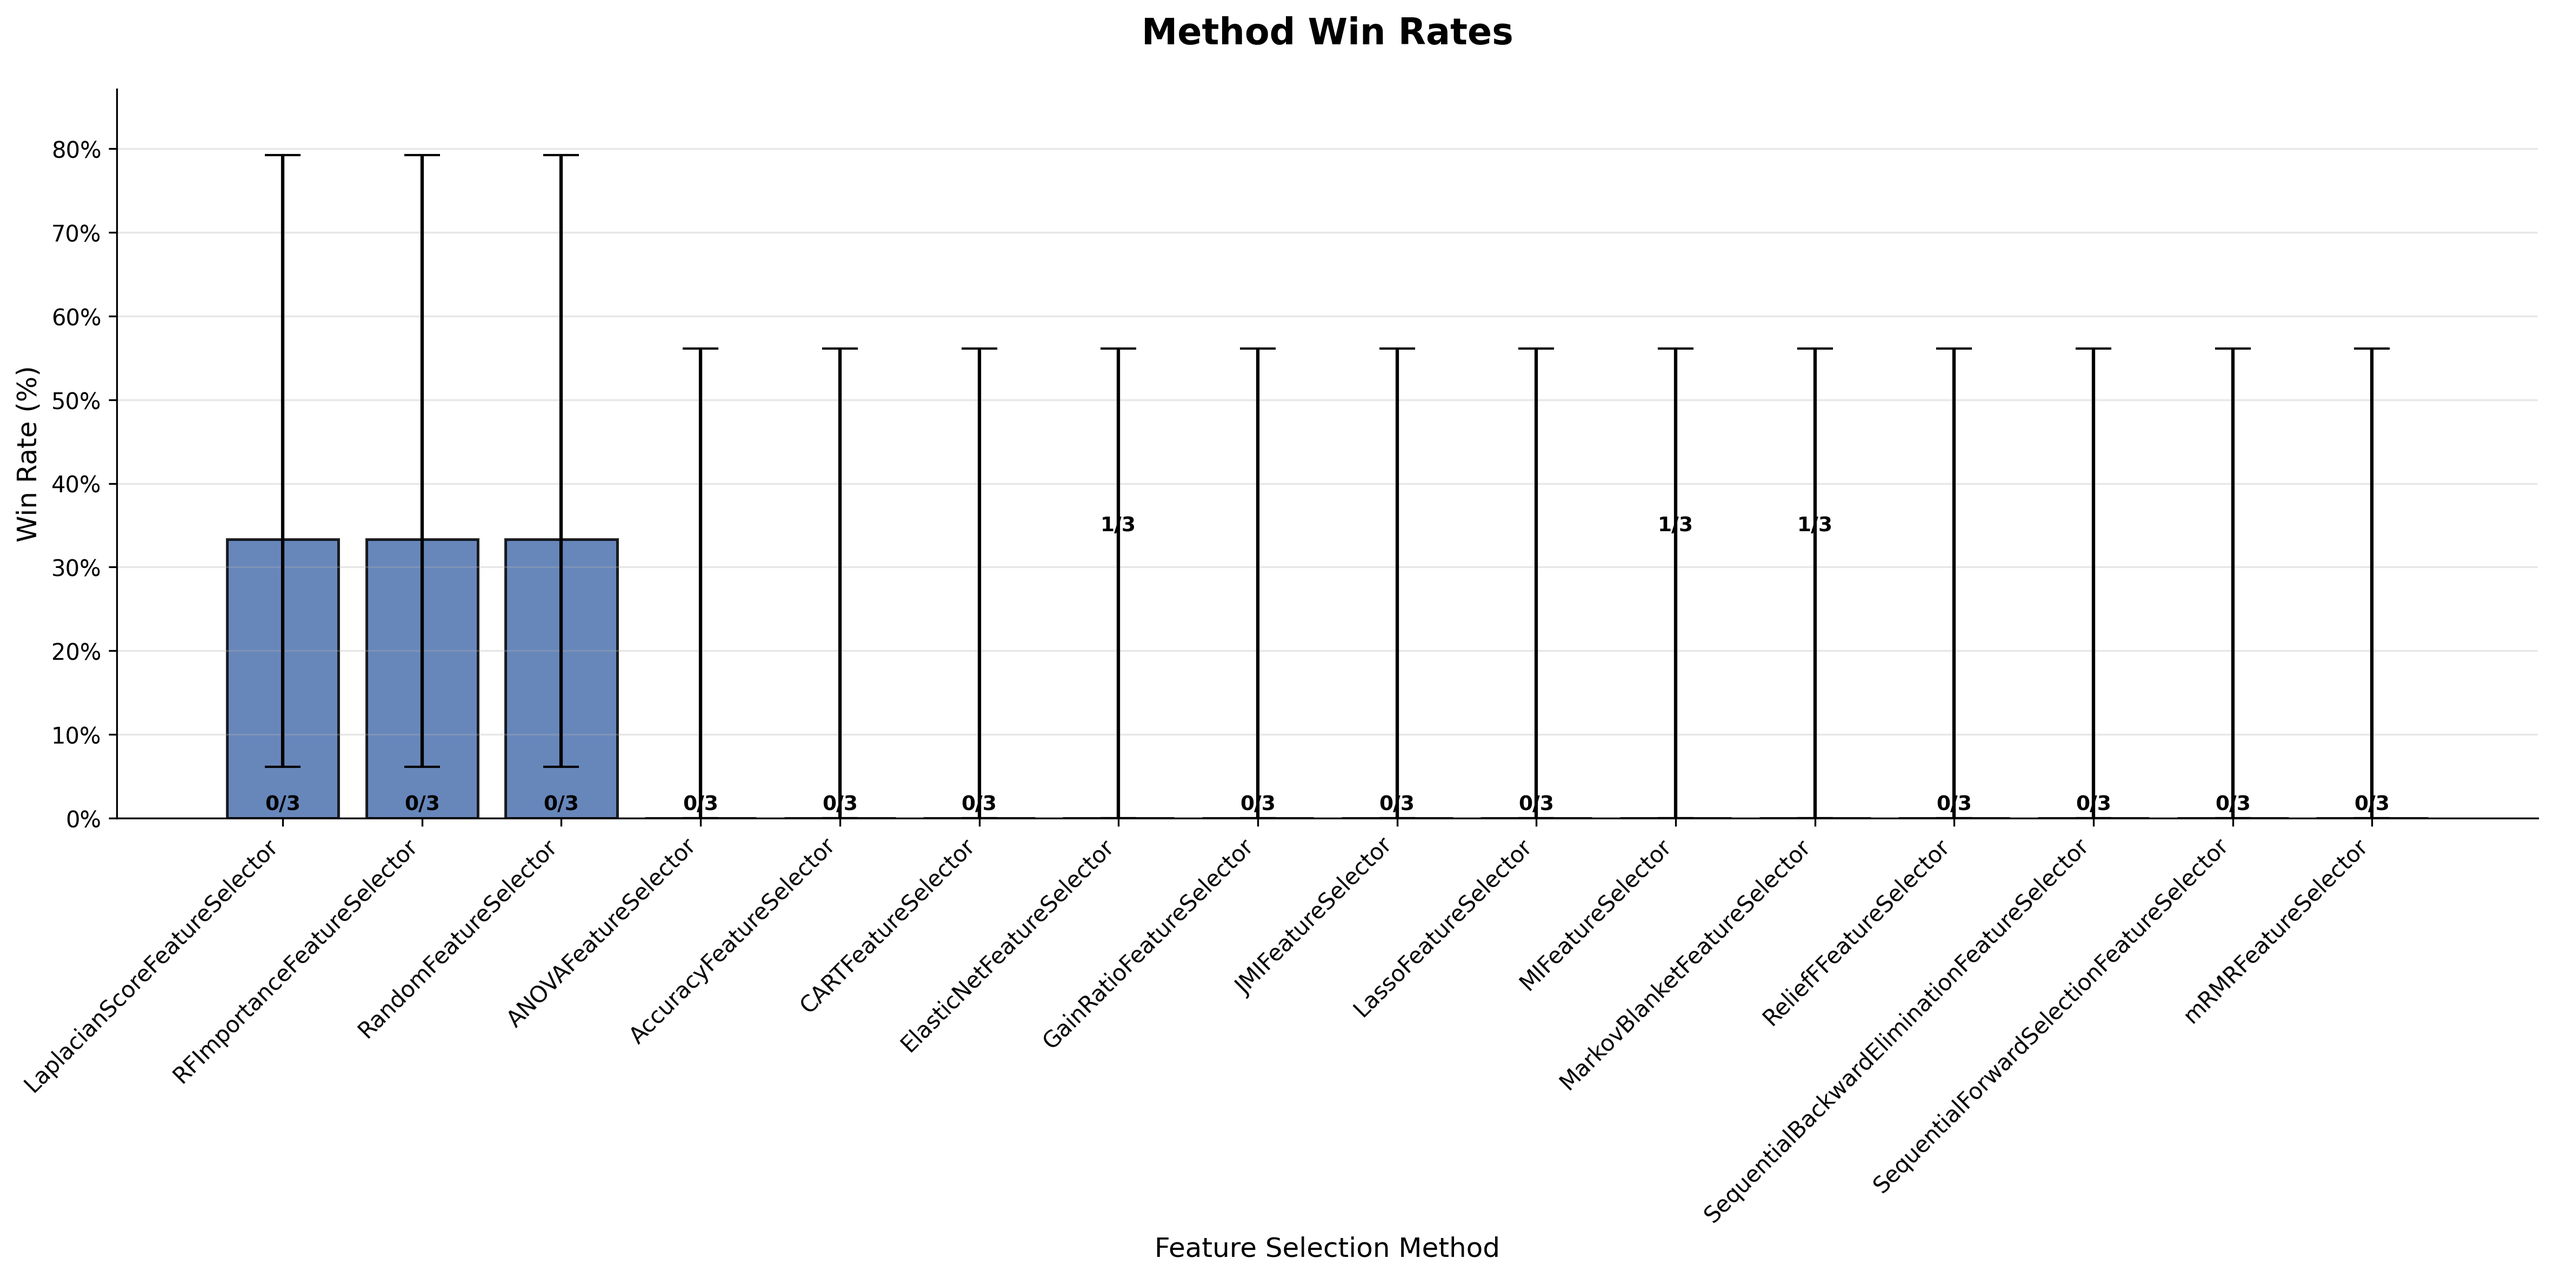
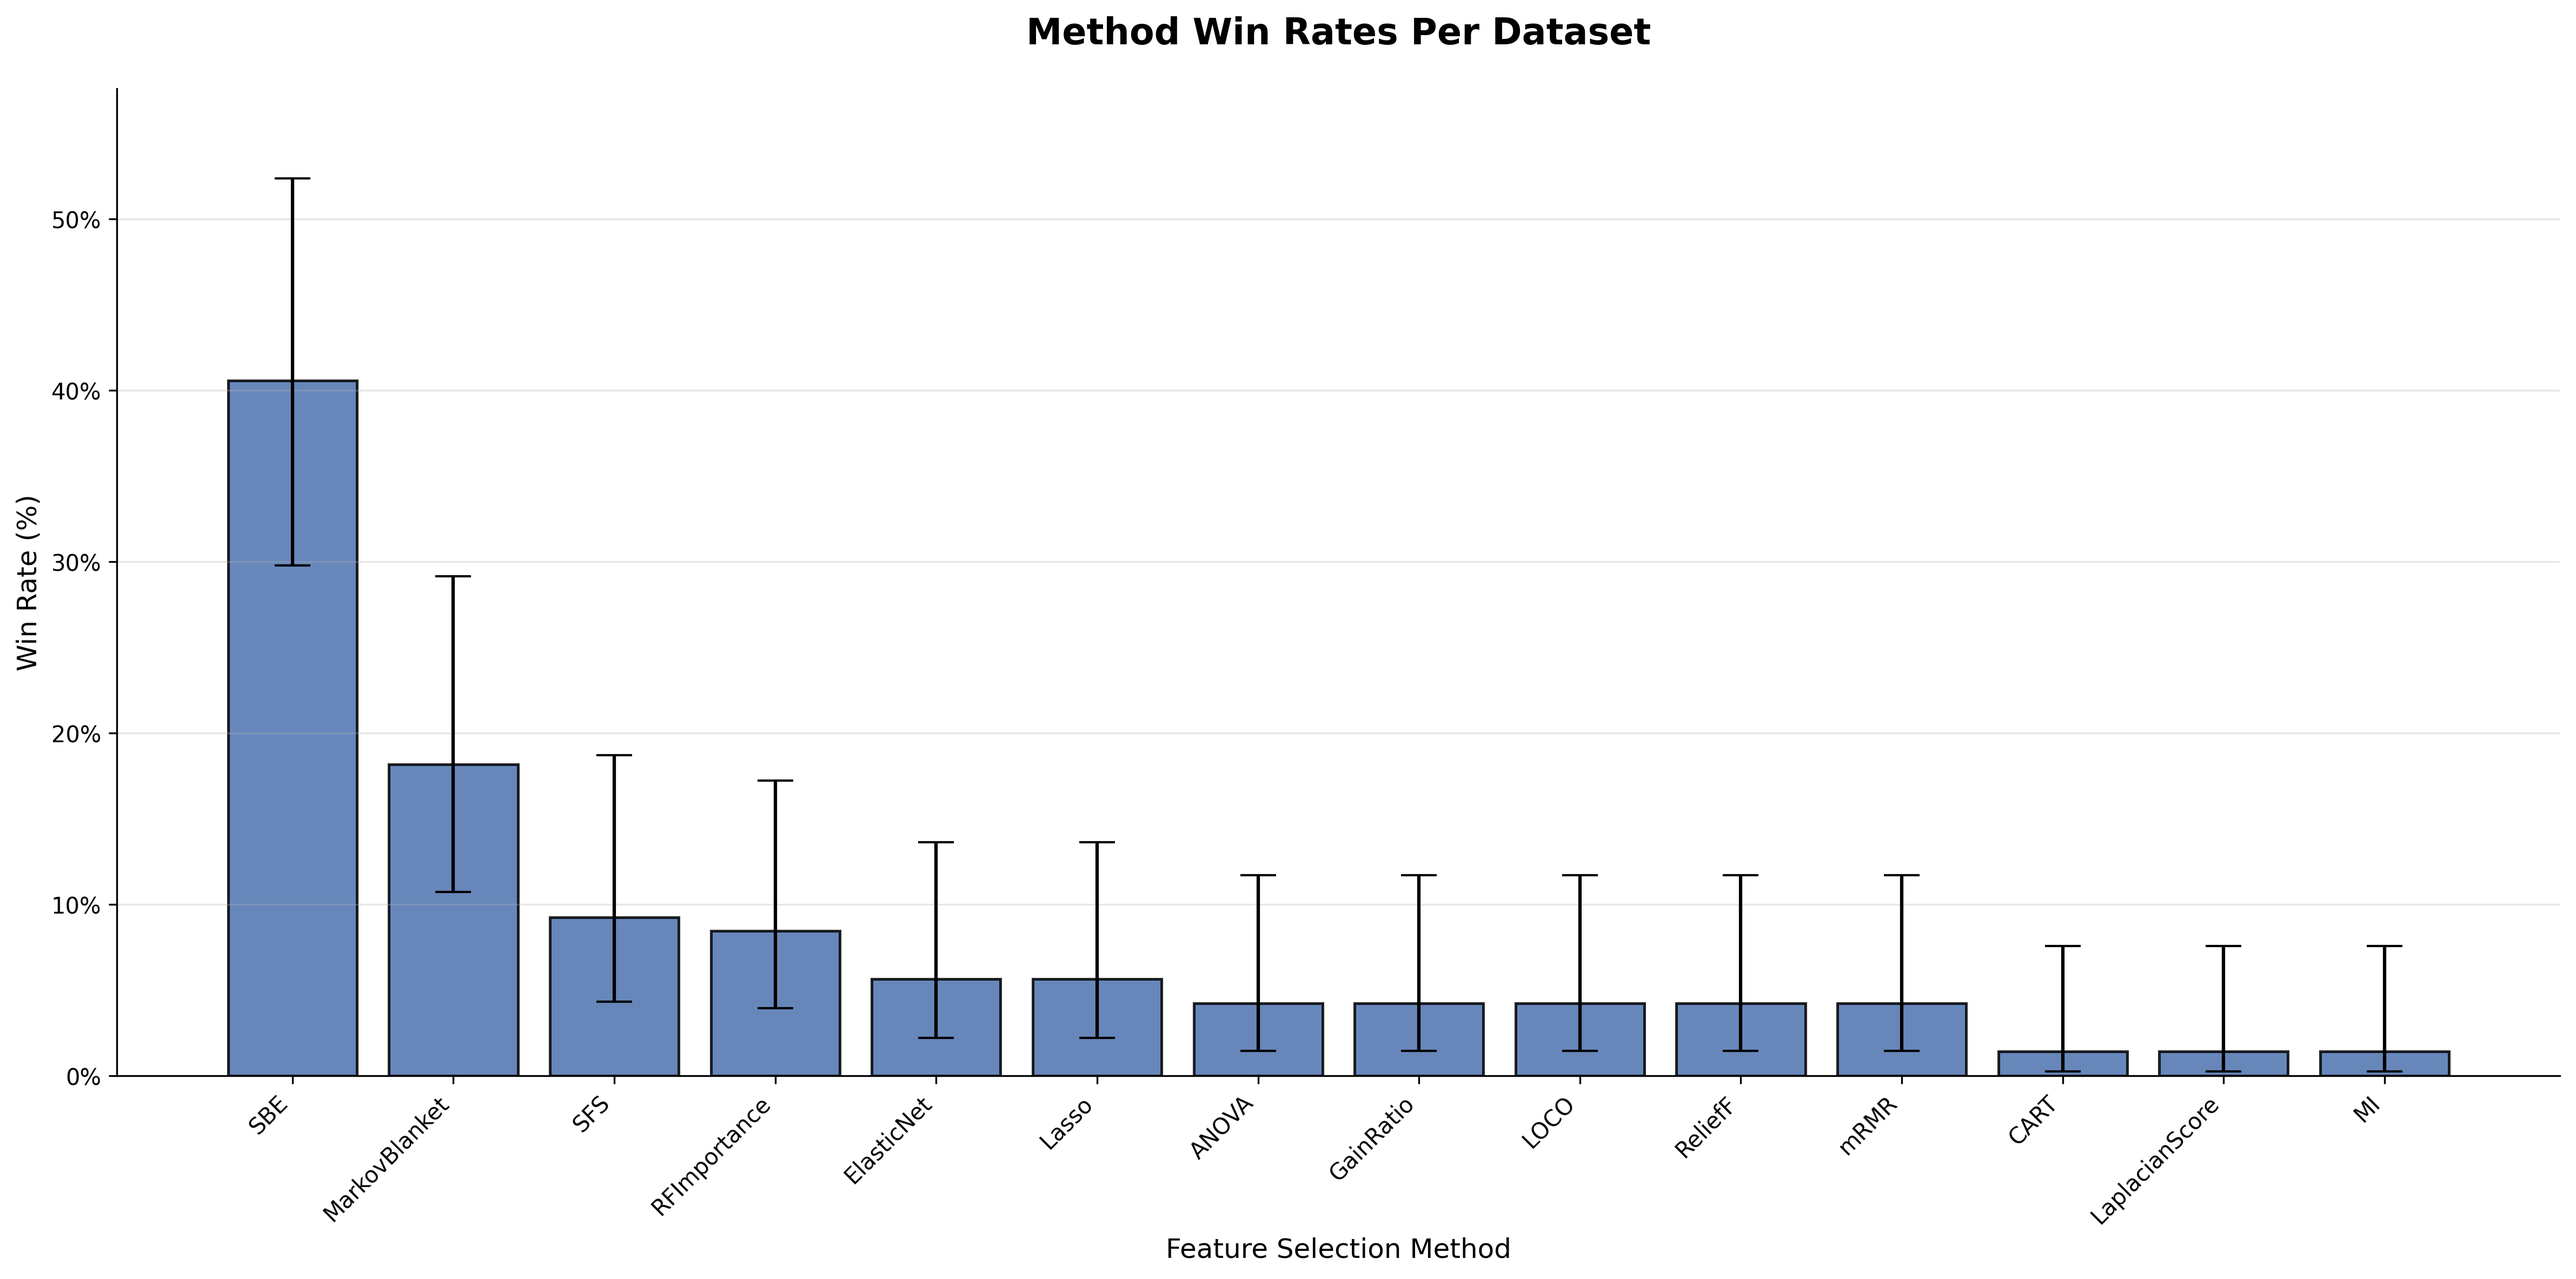
maint: make beautiful, average across buget and model

diff --git a/plotting_code/performance/performance_win_rates_v1.py b/plotting_code/performance/performance_win_rates_v1.py
@@ -1,3 +1,4 @@
+import ast
 from pathlib import Path
 import numpy as np
 import pandas as pd
@@ -7,7 +8,7 @@ from matplotlib.ticker import MultipleLocator, PercentFormatter
 # TODO: Adapt file and plot name
 FILE_NAME = "results_per_split.csv"
 PLOT_NAME = "performance_win_rates_v1.png"
-PLOT_TITLE = "Method Win Rates"
+PLOT_TITLE = "Method Win Rates Per Dataset"
 X_LABEL = "Feature Selection Method"
 Y_LABEL = "Win Rate (%)"
 
@@ -22,34 +23,42 @@ def calculate_win_rates(df):
     """
     Calculate win rates: proportion of datasets where each method has the best performance.
     """
-    required_cols = ["metric", "dataset", "feature_selection_method", "metric_error"]
-    if "dataset" not in df.columns:
-        required_cols.remove("dataset")
-        group_cols = ["metric"]
-    else:
-        group_cols = ["metric", "dataset"]
+    df = df.copy()
 
-    df_clean = df.dropna(subset=required_cols).copy()
+    # --- DATA CLEANING (Consistency with previous plots) ---
+    if "feature_selection_method" in df.columns:
+        df["feature_selection_method"] = df["feature_selection_method"].str.replace("FeatureSelector", "", regex=False)
 
-    # 1. Adjust metric values so "Lower is ALWAYS Better"
-    def adjust_direction(row):
-        is_lower_better = METRIC_DIRECTIONS.get(row["metric"], True)
-        if not is_lower_better:
-            return -row["metric_error"]
-        return row["metric_error"]
+        df["feature_selection_method"] = df["feature_selection_method"].replace({
+            "Accuracy": "LOCO",
+            "SequentialBackwardElimination": "SBE",
+            "SequentialForwardSelection": "SFS"
+        })
 
-    df_clean["adjusted_metric"] = df_clean.apply(adjust_direction, axis=1)
+        # Filter out JMI and Random to match previous plots
+        df = df[~df["feature_selection_method"].isin(["JMI", "Random"])]
 
-    # 2. Average CV splits per dataset/method
-    df_collapsed = df_clean.groupby(
-        group_cols + ["feature_selection_method"]
-    )["adjusted_metric"].mean().reset_index()
+    # -------------------------------------------------------
 
-    # 3. Identify the winner in each dataset (lowest adjusted_metric)
-    df_collapsed["is_winner"] = df_collapsed.groupby(group_cols)["adjusted_metric"].transform("min") == df_collapsed[
-        "adjusted_metric"]
+    def extract_model_cls(model_details):
+        if pd.isna(model_details):
+            return "Unknown"
+        details_dict = ast.literal_eval(str(model_details))
+        return details_dict.get('model_cls', "Unknown")
 
-    # 4. Calculate win rates per method
+    df["model_cls"] = df["model_details"].apply(extract_model_cls)
+
+    # 1. AVERAGE PHASE
+    df_collapsed = df.groupby(
+        ["tid", "metric", "feature_selection_method"]
+    )["metric_error"].mean().reset_index()
+
+    # 2. Identify the winner in each dataset
+    # FIX: Group by tid and metric, and check against metric_error!
+    df_collapsed["is_winner"] = df_collapsed.groupby(["tid", "metric"])["metric_error"].transform("min") == \
+                                df_collapsed["metric_error"]
+
+    # 3. Calculate win rates per method
     win_rates = df_collapsed.groupby("feature_selection_method")["is_winner"].agg([
         "sum", "count", "mean"
     ]).reset_index()
@@ -86,11 +95,7 @@ def plot_win_rates(df):
         linewidth=1.2
     )
 
-    # Add win counts as text labels on bars
-    for i, row in win_rates.iterrows():
-        ax.text(i, row["win_rate_pct"] + 0.5,
-                f'{int(row["wins"])}/{int(row["total_datasets"])}',
-                ha='center', va='bottom', fontsize=9, weight='bold')
+
 
     # Formatting
     ax.set_xticks(y_pos)
